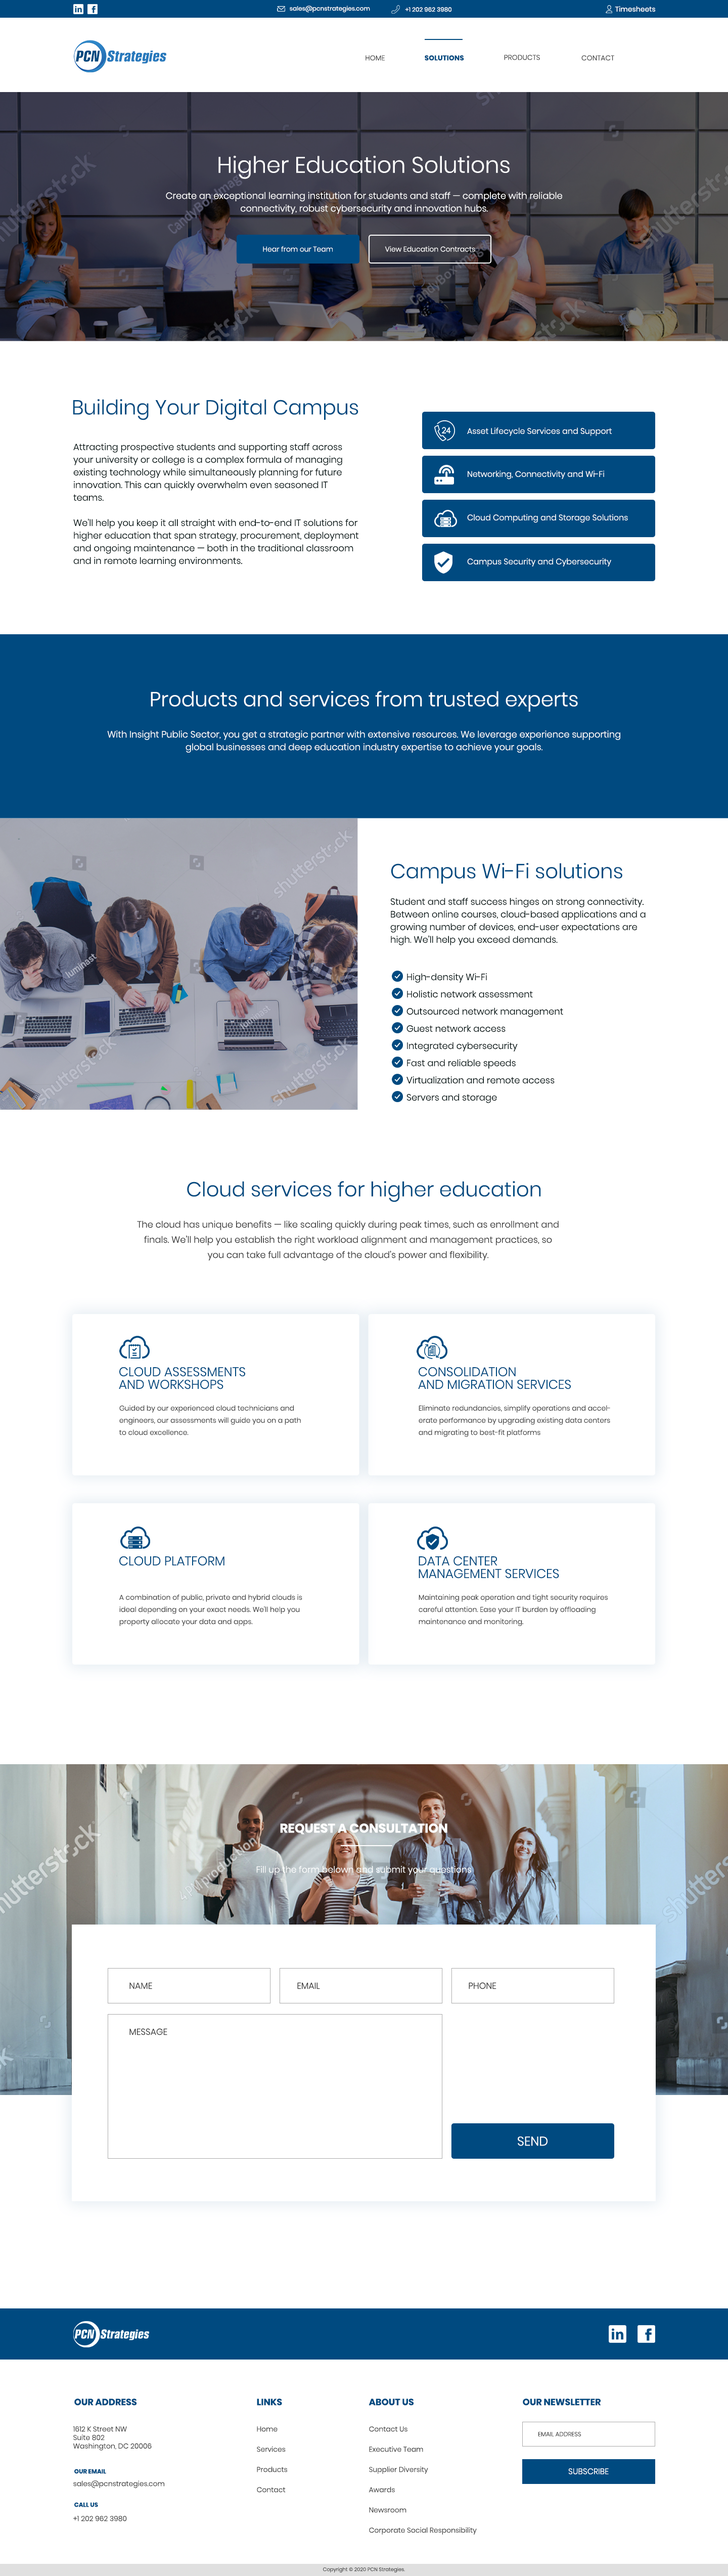
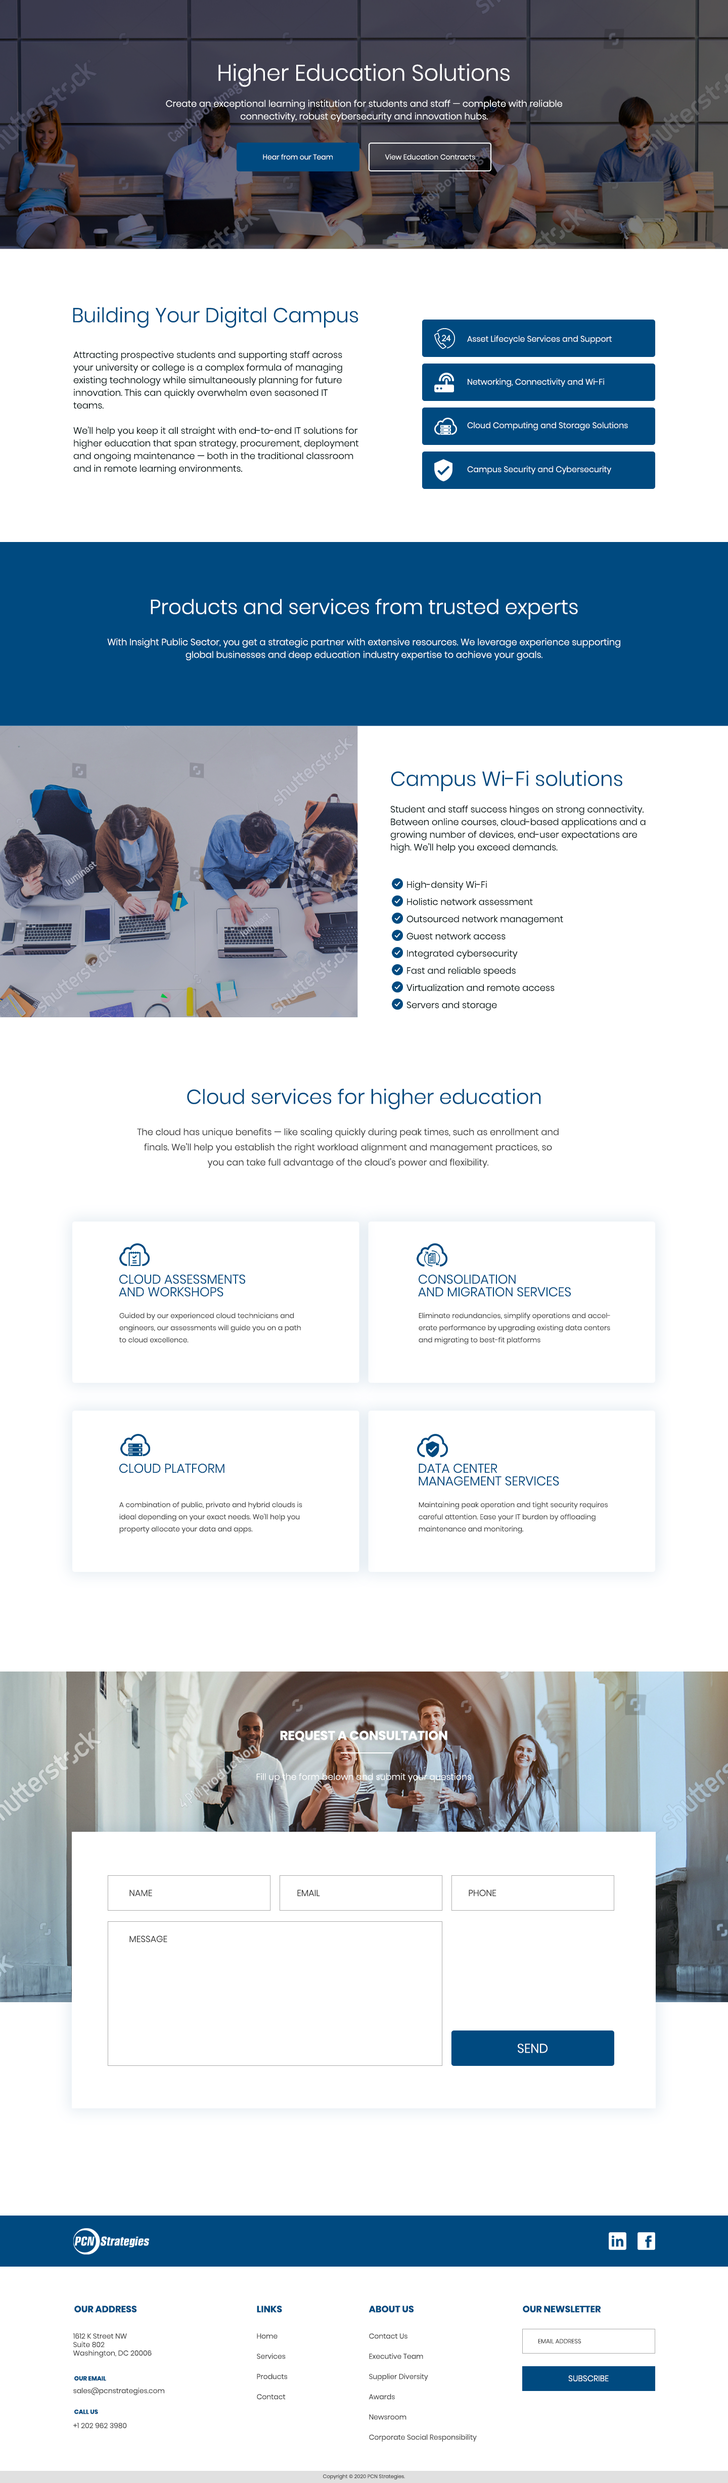
Update

diff --git a/index.html b/index.html
@@ -19,6 +19,7 @@
             </div>
             <div class="contactinfo">
                 <img src="./img/icon-mail.png" alt="email">sales@pcnstrategies.com
+                <div class="spacer"></div>
                 <img src="./img/icon-call.png" alt="phone">+1 202 962 3980
             </div>
             <div class="timesheet">
@@ -26,10 +27,37 @@
             </div>
         </div>
     </div>
-    <div class="nav">
-
+    <div id="navbar">
+        <div class="nav">
+            <div class="logo">
+                <a href=""><img src="./img/logo.png" alt="pcnstrategies" style="height: auto; width: 183px;" id="Logo"></a>
+            </div>
+            <div class="nav-links">
+                    <li class="active"><a href="">HOME</a></li>
+                    <li><a href="">SOLUTIONS</a></li>
+                    <li><a href="">PRODUCTS</a></li>
+                    <li><a href="">CONTACT</a></li>
+            </div>
+        </div>    
     </div>
-<img src="./img/index_Pages_HigherEducationSolutions_.png" height="auto" width="100%"alt="">
+<img src="./img/index.png" height="auto" width="100%"alt="">
+
+
+<script>
+    window.onscroll = function() {myFunction()};
+    
+    var navbar = document.getElementById("navbar");
+    var sticky = navbar.offsetTop;
+    
+    function myFunction() {
+      if (window.pageYOffset >= sticky) {
+        navbar.classList.add("sticky")
+      } else {
+        navbar.classList.remove("sticky");
+      }
+    }
+    
+</script>    
 <script src="https://cdnjs.cloudflare.com/ajax/libs/jquery/3.5.1/jquery.slim.min.js"></script>
 <script src="https://cdnjs.cloudflare.com/ajax/libs/popper.js/1.16.1/umd/popper.min.js"></script>
 <script src="https://cdnjs.cloudflare.com/ajax/libs/twitter-bootstrap/4.5.0/js/bootstrap.min.js"></script>

diff --git a/style.css b/style.css
@@ -1,6 +1,9 @@
+a{
+    text-decoration: none;
+}
 .topheader{
     display: flex;
-    height: 0.7%;
+    height: 35px;
     width: 100%;
     background-color: #004a80;
 }
@@ -11,20 +14,77 @@
     color: #ffffff;
     font-size: small;
 }
+.links img{
+    margin: 0 10px;
+}
 .socialmedia{
+    align-self: center;
     display: flex;
     width: 10%;
 }
 .contactinfo{
     display: flex;
     width: 60%;
+    margin: 0 0 0 290px;
 }
-.timesheer{
+.timesheet{
     display: flex;
     width: 10%;
 }
+.timesheet a{
+    color: white;
+}
+.contactinfo img{
+    align-self: center;
+    margin: 0px 10px;
+    height: 11px;
+    width: auto;
+}
+.spacer{
+    margin: 0 20px;
+}
+.timesheet img{
+    align-self: center;
+    margin: 0px 10px;
+    height: 11px;
+    width: auto;
+}
 .nav{
-    height: 2.9%;
-    width: 100%;
+    height: 174px;
+    width: 80%;
+    margin: auto;
     background-color: #ffffff;
+}
+.nav-links{
+    display: flex;
+    float: right;
+    width: 575px;
+    justify-content: center;
+    align-content: flex-end;
+}
+.nav-links li{
+    margin: 0px 40px;
+    padding: 30px 0;
+}
+.nav-links a{
+    color: #393939;
+    font-size: medium;
+}
+.active a{
+    color: #004a80;
+    font-weight: bold;
+}
+#navbar{
+    background-color: #ffffff;
+    overflow: hidden;
+    width: 100%;
+}
+
+.sticky {
+    position: fixed;
+    top: 0;
+    width: 100%;
+    padding: 0px;
+    height: 80px;
+    justify-content: center;
 }
